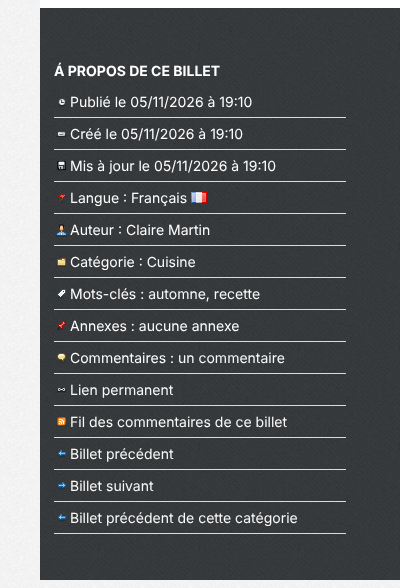
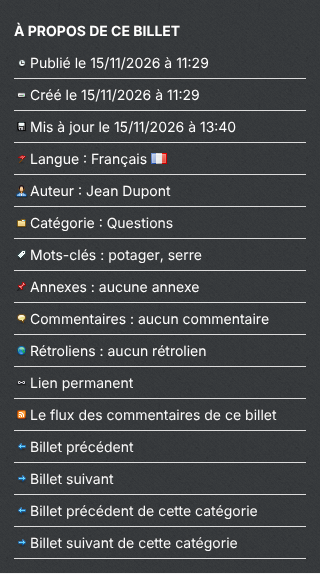
[cosmetic] User guide: follow the translations, pages and update date fixes

Changed region(s): [[0.0, 0.0, 1.0, 1.0]]

diff --git a/docs/fr/utilisation.md b/docs/fr/utilisation.md
@@ -12,9 +12,9 @@ postInfoWidget ajoute un gadget qui affiche les informations d'un billet (dates,
 
 ## Ajouter le gadget
 
-Allez dans **Gadgets**, ajoutez le gadget « Entry information list » (son nom n'est pas traduit en français) à la zone de votre choix, puis enregistrez.
+Allez dans **Gadgets**, ajoutez le gadget « Liste d'informations du billet » à la zone de votre choix, puis enregistrez.
 
-Le gadget n'apparaît que sur la page d'un billet. Sur l'accueil, les listes de billets, etc., il est invisible.
+Le gadget n'apparaît que sur la page d'un billet ou d'une page statique. Sur l'accueil, les listes de billets, etc., il est invisible.
 
 ![Gadget public](img/gadget-public.png)
 
@@ -27,13 +27,13 @@ Cliquez sur le nom du gadget pour déplier ses réglages.
 Chaque ligne d'information correspond à un champ texte. **Laissez le champ vide pour ne pas afficher la ligne.**
 
 * **Titre** : le titre du gadget (« À propos de ce billet » par défaut).
-* Dates de publication, de création et de dernière mise à jour. Le format utilise les codes de date PHP (`%d/%m/%Y %H:%M`).
+* Dates de publication, de création et de dernière mise à jour. Le format utilise les codes de date PHP (`%d/%m/%Y %H:%M`). Les heures sont affichées dans le fuseau horaire du billet.
 * Langue, auteur, catégorie, mots-clés.
 * Nombre d'annexes, de commentaires et de rétroliens.
 * Lien permanent.
 * **Afficher l'URL du flux des commentaires**.
 * Liens vers le billet précédent ou suivant, du blog entier ou de la même catégorie.
-* **Style** : sans style, petite icône ou icône normale devant chaque ligne.
+* **Essayer d'adapter le style** : sans style, petite icône ou icône normale devant chaque ligne.
 * Les options habituelles des gadgets : contenu seul, classe CSS, hors ligne.
 
 ## Les codes utilisables
@@ -53,12 +53,10 @@ Exemple : seuls la date, l'auteur, la catégorie, les mots-clés, le nombre de c
 
 ![Gadget personnalisé](img/gadget-personnalise.png)
 
-Les réglages utilisés : `Écrit le %d/%m/%Y`, `Par %T`, `%D commentaire(s)`, `← %F` et `%F →`, style « sans style », les autres champs vidés.
+Les réglages utilisés : `Écrit le %d/%m/%Y`, `Par %T`, `%D commentaire(s)`, `← %F` et `%F →` pour la navigation dans la catégorie, style « sans style », les autres champs vidés.
 
-Certaines lignes n'apparaissent que si elles ont un sens : la catégorie si le billet en a une, les mots-clés s'il y en a (plugin Tags), les commentaires et rétroliens s'ils sont ouverts, les liens de navigation s'il existe un billet voisin.
+Certaines lignes n'apparaissent que si elles ont un sens : la date de dernière mise à jour si le billet a été modifié après sa création et sa publication, la catégorie si le billet en a une, les mots-clés s'il y en a (plugin Tags), les commentaires et rétroliens s'ils sont ouverts, les liens de navigation s'il existe un billet voisin.
 
 ## Bon à savoir
 
-* Le nom du gadget (« Entry information list ») et le libellé de l'option de style (« Try to adapt style ») ne sont pas traduits en français.
-* Plusieurs fautes dans l'interface en français : « Á propos de ce billet » (titre par défaut), « lien pemanent ».
-* Le gadget ne fonctionne que sur les billets : il n'apparaît pas sur les pages statiques.
+* Le lien précédent ou suivant du blog entier et celui de la catégorie peuvent pointer vers le même billet : gardez l'un ou l'autre pour éviter les doublons.
